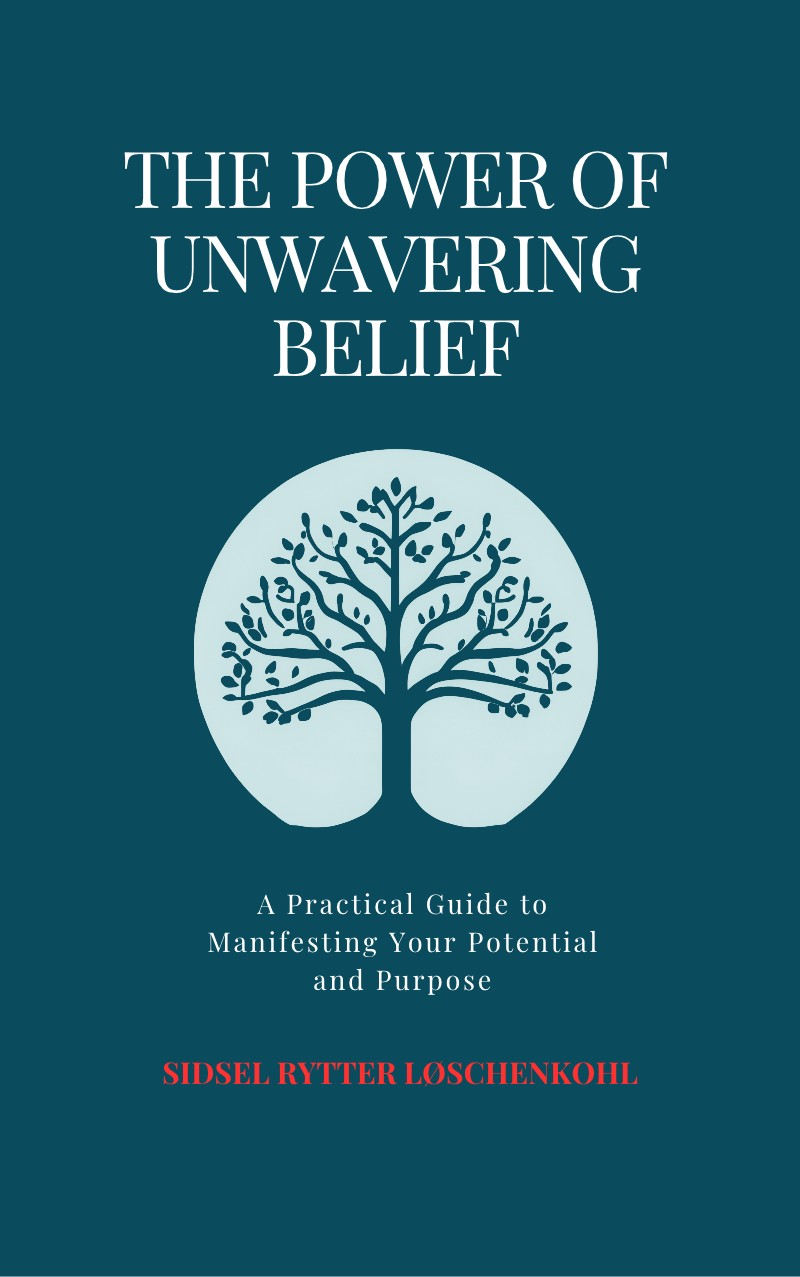
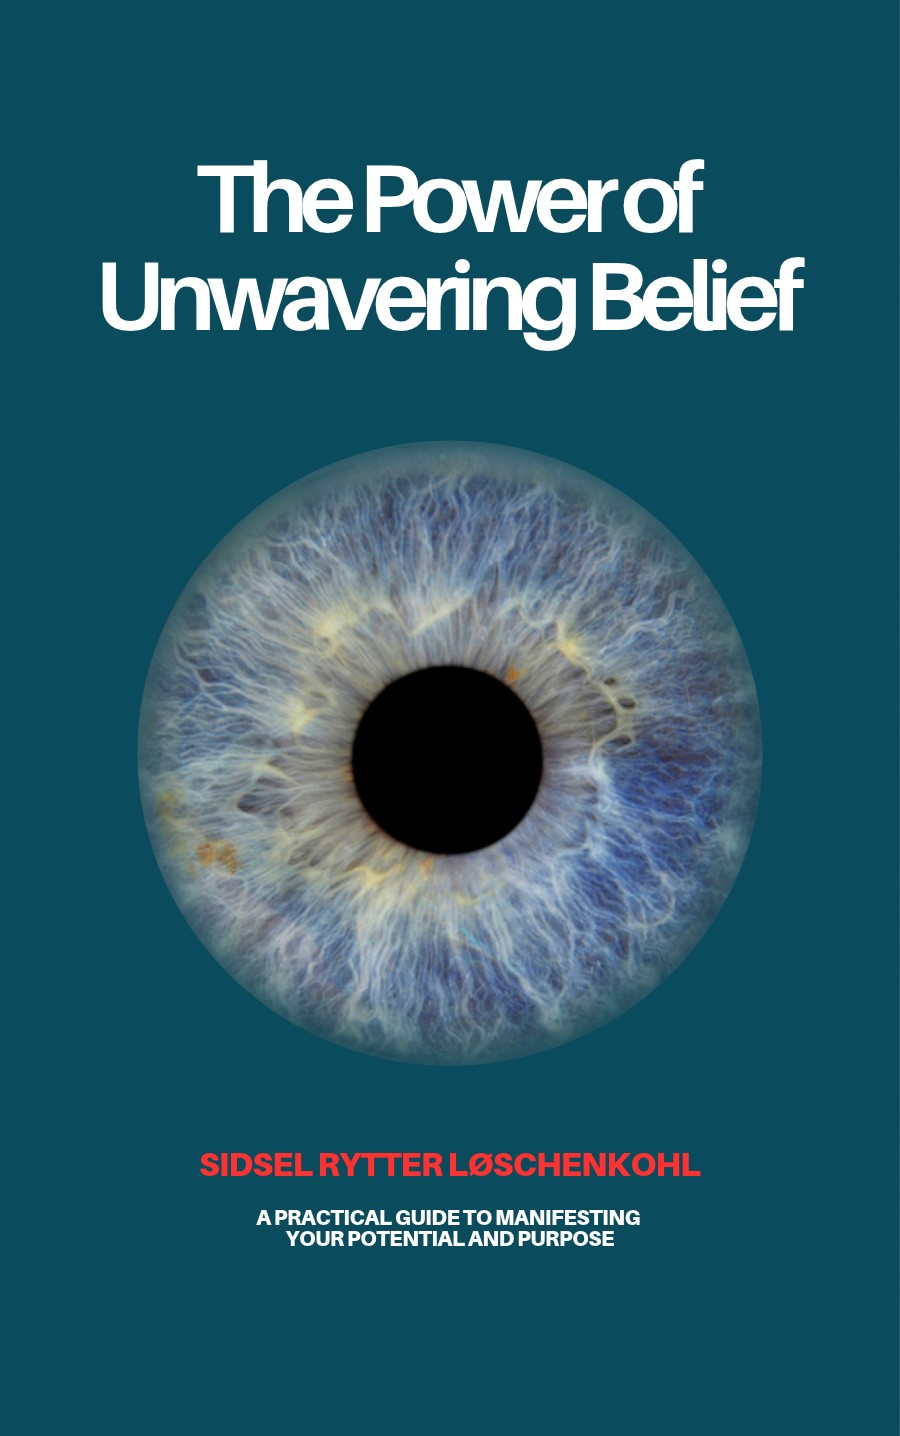
About: new teal eye book cover, styled as a real book
Claude-Session: https://claude.ai/code/session_019JSQQoQv7ciZPW7vyYJMCo

diff --git a/src/pages/About.tsx b/src/pages/About.tsx
@@ -264,12 +264,21 @@ const About = () => {
         <div className="max-w-[1100px] mx-auto grid grid-cols-1 md:grid-cols-[0.9fr_1.1fr] items-center gap-12 md:gap-16">
           <div className="relative flex justify-center">
             <div aria-hidden="true" className="absolute inset-0 m-auto w-[320px] h-[320px] md:w-[420px] md:h-[420px] rounded-full bg-mint/20 blur-3xl" />
-            <img
-              src={bookCover}
-              alt="The Power of Unwavering Belief by Sidsel Løschenkohl"
-              className="relative w-[220px] md:w-[280px] -rotate-3 rounded-[3px] shadow-[0_30px_60px_rgba(0,0,0,0.55)]"
-              loading="lazy"
-            />
+            <div className="relative w-[220px] md:w-[280px] -rotate-3">
+              <div aria-hidden="true" className="absolute top-[4px] bottom-[4px] -right-[7px] w-[9px] rounded-r-[3px] bg-[#ece7dc] bg-[repeating-linear-gradient(90deg,rgba(0,0,0,0.08)_0px,rgba(0,0,0,0.08)_1px,transparent_1px,transparent_3px)] shadow-[0_20px_40px_rgba(0,0,0,0.45)]" />
+              <div className="relative overflow-hidden rounded-l-[3px] rounded-r-[6px] shadow-[0_30px_60px_rgba(0,0,0,0.55),0_8px_16px_rgba(0,0,0,0.35)]">
+                <img
+                  src={bookCover}
+                  alt="The Power of Unwavering Belief by Sidsel Løschenkohl"
+                  className="block w-full"
+                  loading="lazy"
+                />
+                <span aria-hidden="true" className="absolute inset-y-0 left-0 w-[8%] bg-gradient-to-r from-black/45 via-black/10 to-transparent" />
+                <span aria-hidden="true" className="absolute inset-y-0 left-[5.5%] w-px bg-white/15" />
+                <span aria-hidden="true" className="absolute inset-y-0 left-[6.2%] w-px bg-black/25" />
+                <span aria-hidden="true" className="absolute inset-0 bg-gradient-to-br from-white/[0.08] via-transparent to-black/20" />
+              </div>
+            </div>
           </div>
           <div className="text-center md:text-left">
             <span className="text-[13px] font-bold tracking-[0.12em] uppercase text-mint">The book</span>
